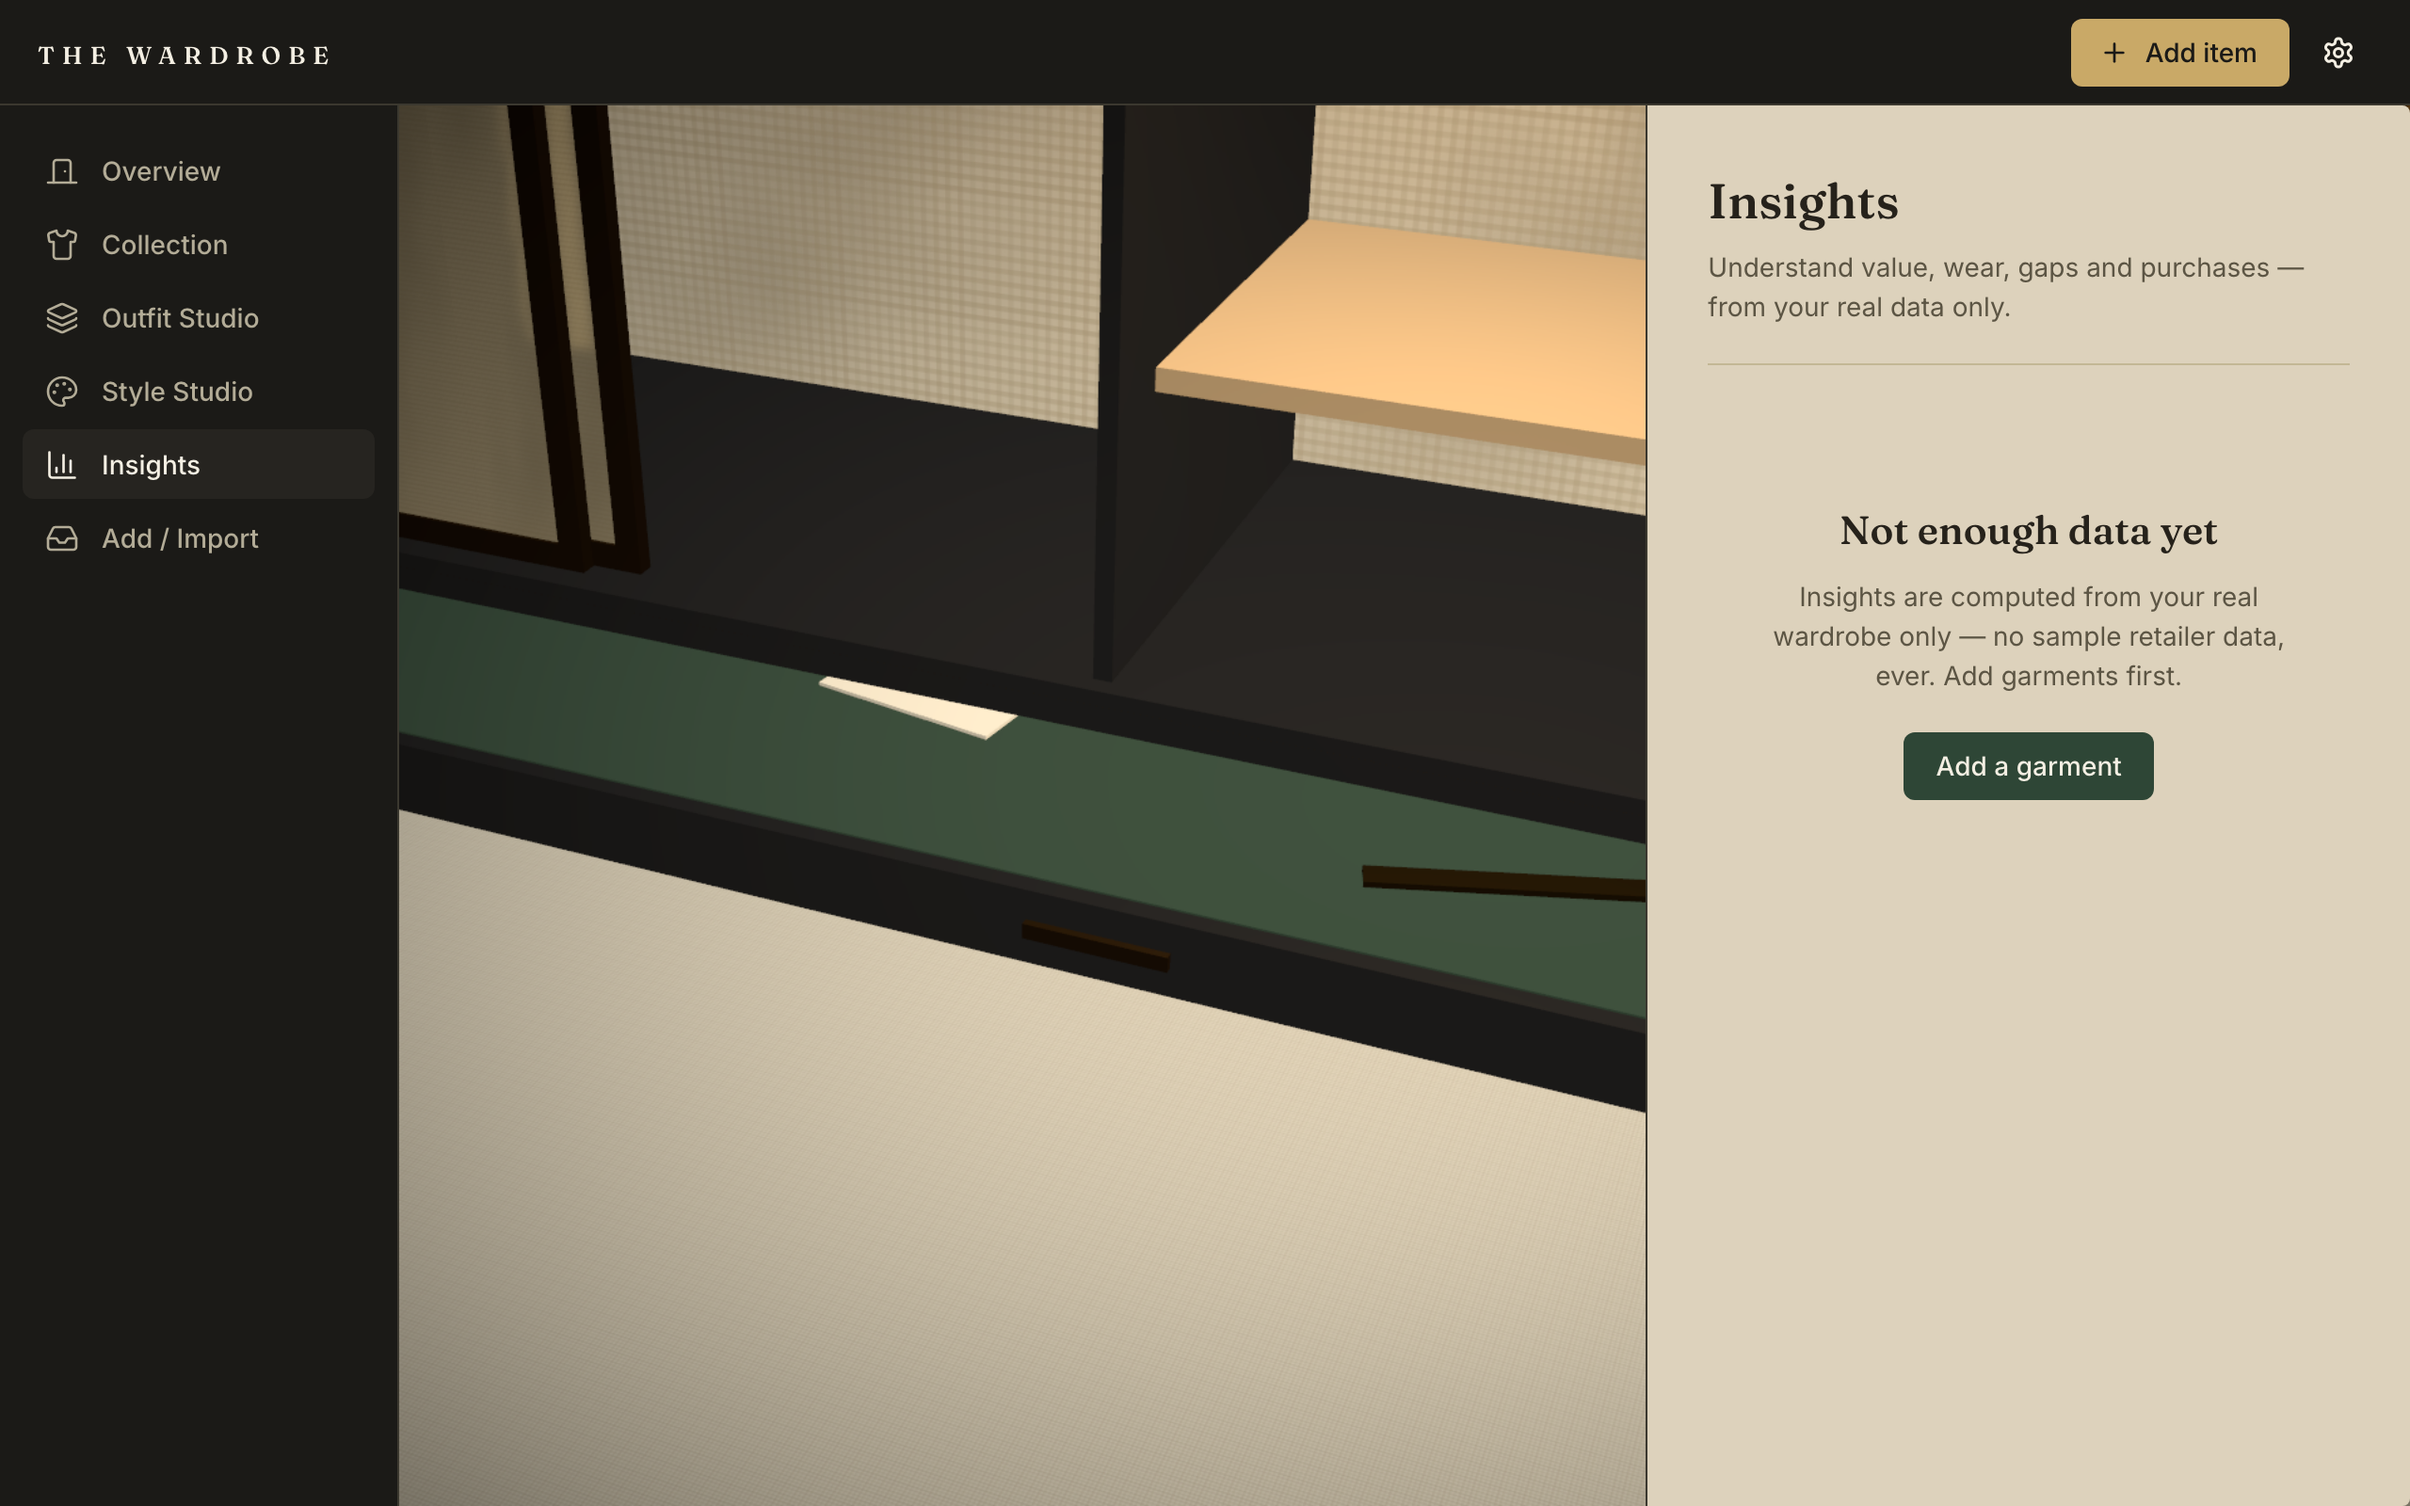
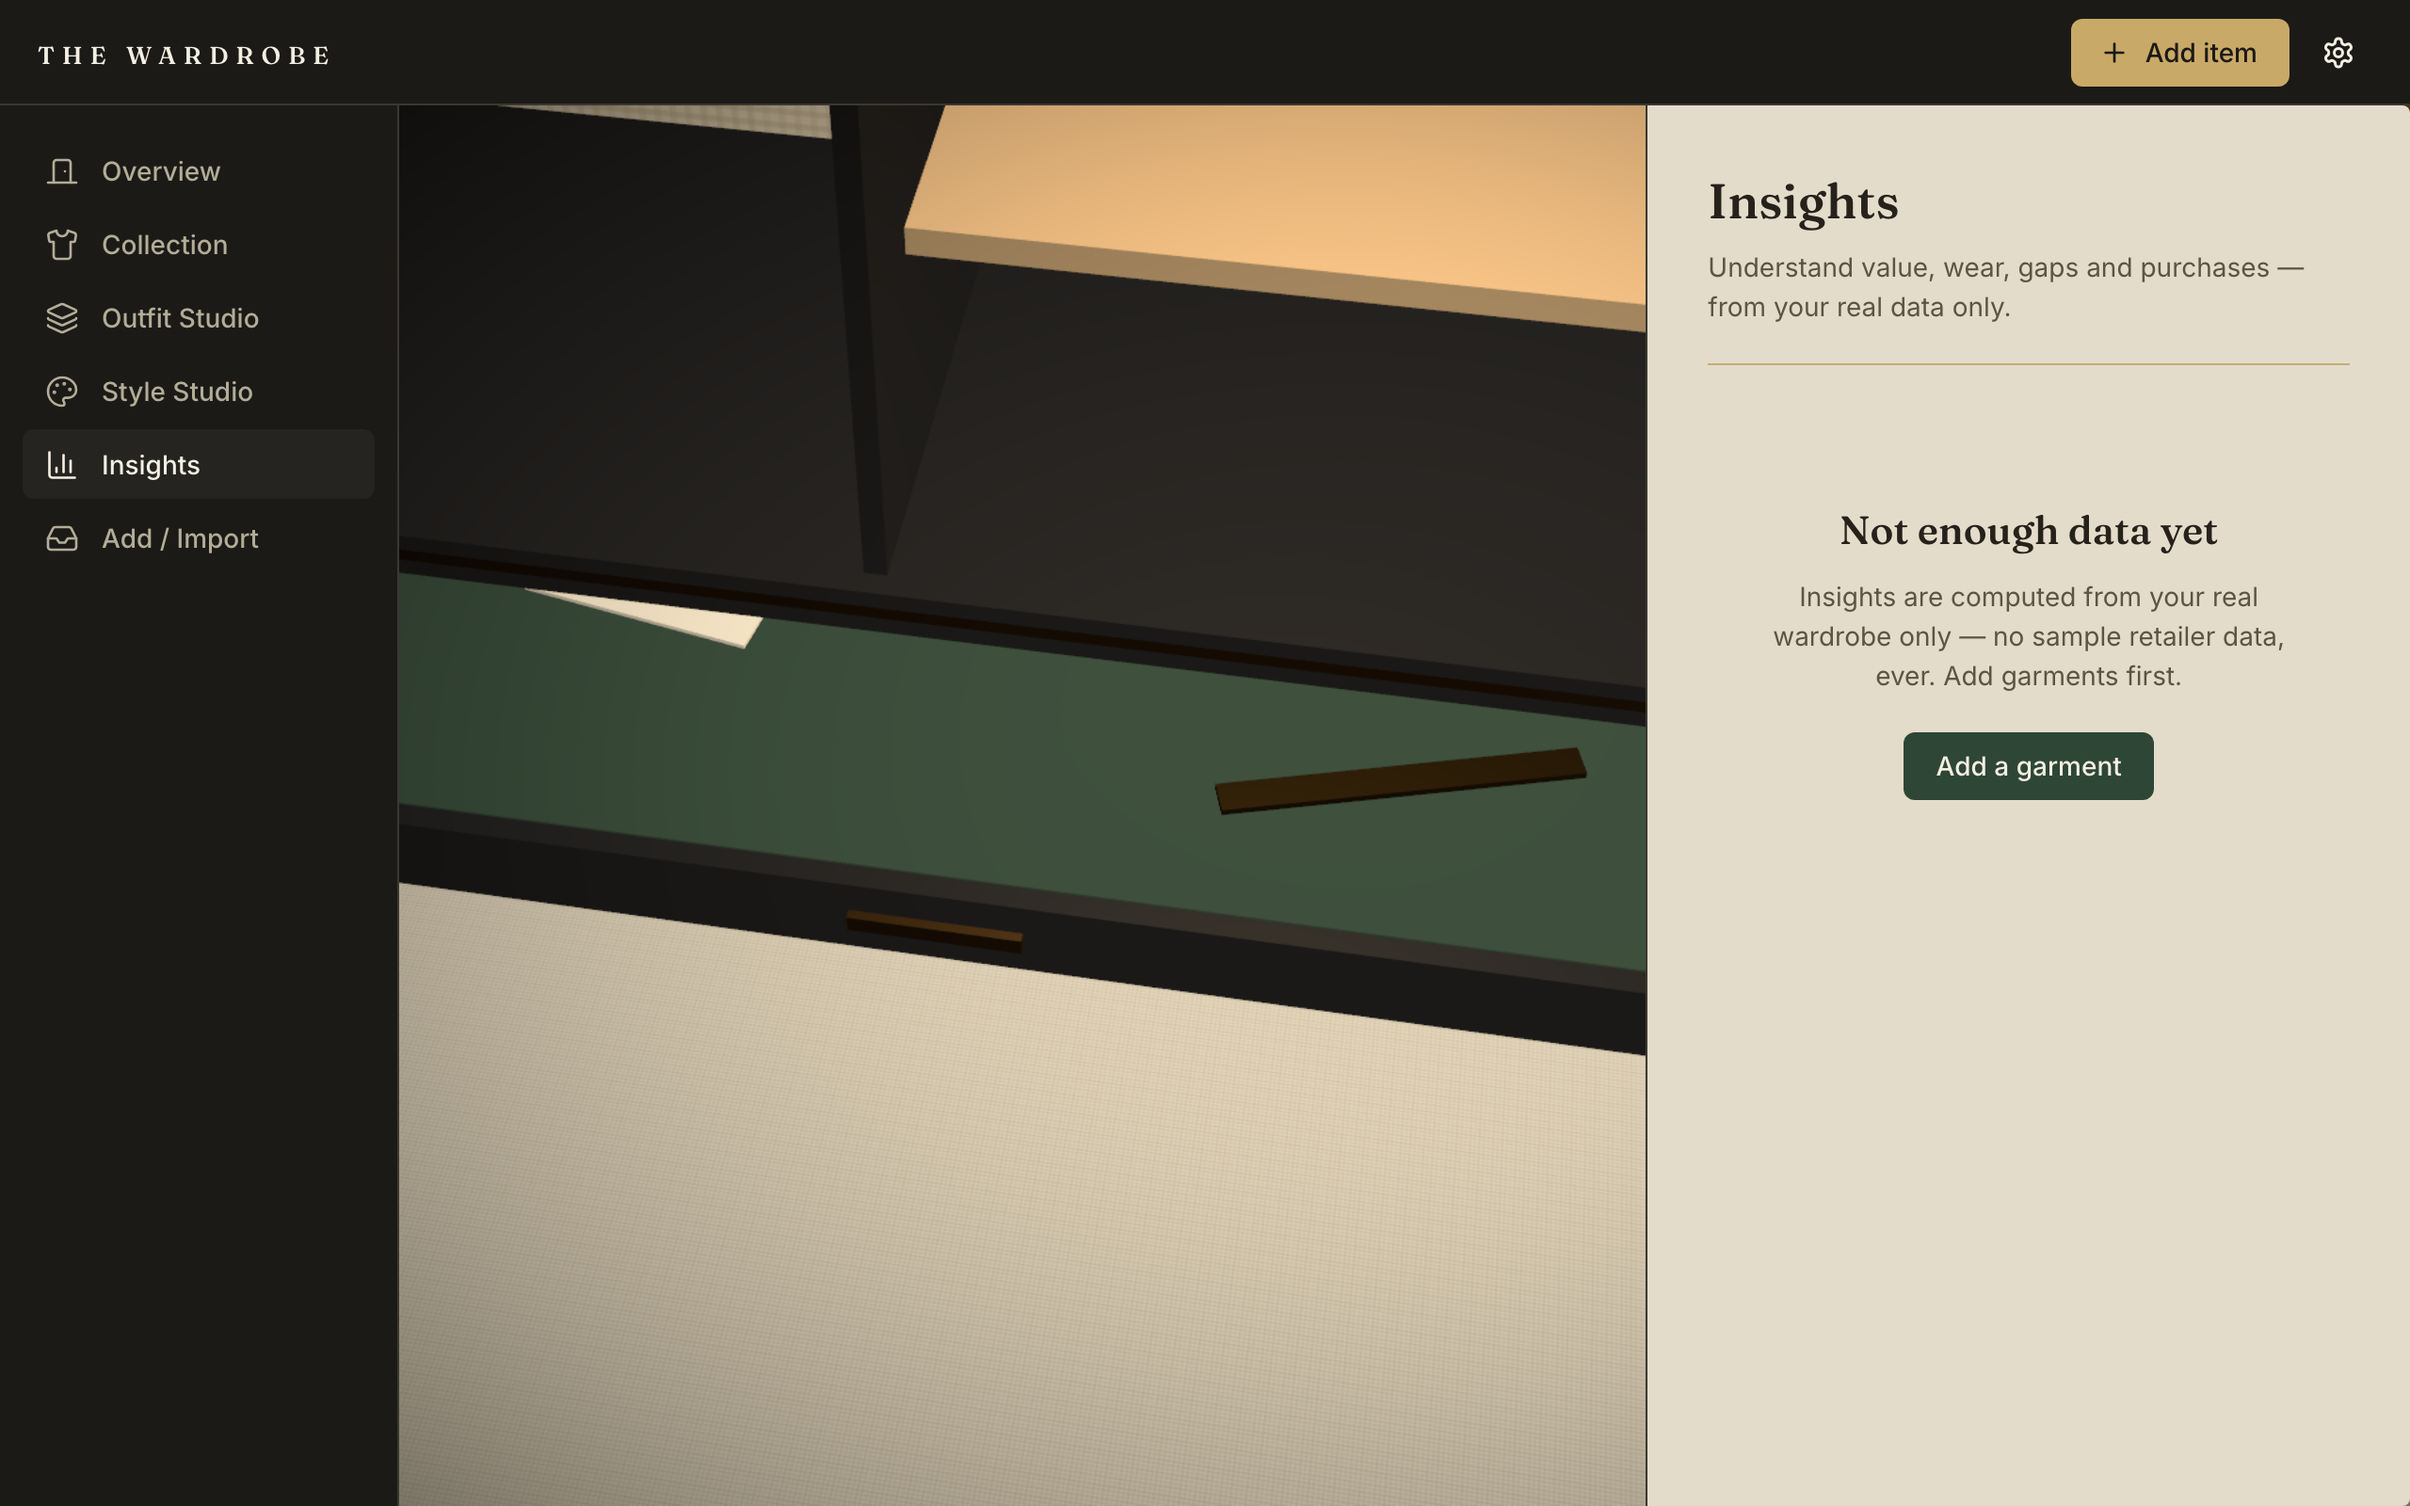
design(revamp): redesign station compositions + rebalance 2D palette to the MJ frames
Compositions — re-authored all six framings to the Midjourney desktop-
layout frames (frontal, formal, gallery-lit), now that sliding panels
free the camera to go straight-on:
- overview: generous straight-on hero (master-style frame)
- collection: frontal lit wardrobe, pulled back so the bay reads as one
  glowing panel among the linen (desktop-collection-workspace)
- outfits: full formal leaning mirror with room to breathe (desktop-outfit)
- style: centred on the golden cane slide
- insights: steep look-down onto the felt ledger drawer + brass ruler (frame 05)
- import: close on a lit brass tray of fanned photo cards — enriched the
  tray with cream cards (one oxblood-edged) + a warm picture light so the
  composition has a real subject (post-tray frame); tray relocated to frame

Palette — rebalanced the 2D surfaces to the frames' 'brighter, cleaner,
less brown' reading planes: base linen lifted off tan toward clean ivory
(#ddd2bc→#e4dccb), raised = lightest reading plane (#f2ede0), a --linen-
sunken reserved for wells, and brass pushed into the hairlines
(#c3b795→#c6ad78) since the frames rule everything in gold. Contrast
still passes (48/48, both surface suites).

All green: unit 48/48, e2e 15/15, scene framings/interruption/reduced-
motion/fallback PASS.

Changed region(s): [[0.1562, 0.0625, 0.6875, 0.75], [0.1562, 0.4688, 0.5625, 0.6562]]

diff --git a/src/revamp/scene/stations.ts b/src/revamp/scene/stations.ts
@@ -22,14 +22,27 @@ export interface Station {
   onDoor?: boolean
 }
 
-/** Lantern framings (scene-v2-lantern.md): frontal, formal, reference-like. */
+/**
+ * Lantern framings — redesigned to the Midjourney desktop-layout frames:
+ * frontal, formal, gallery-lit. Positions are authored full-frame; the rig
+ * view-offsets each into the visible left 62% when the workspace is open, so
+ * the hero object lands centred in the pane rather than the full window.
+ */
 export const STATIONS: Record<StationId, Station> = {
-  overview: { id: 'overview', pos: { x: 0.35, y: 1.32, z: 5.0 }, tgt: { x: 0, y: 1.26, z: 0.35 } },
-  collection: { id: 'collection', pos: { x: 0.05, y: 1.38, z: 3.3 }, tgt: { x: 0, y: 1.3, z: 0.32 } },
-  outfits: { id: 'outfits', pos: { x: 0.7, y: 1.28, z: 3.7 }, tgt: { x: -1.8, y: 1.2, z: 0.5 }, onDoor: true },
-  style: { id: 'style', pos: { x: -0.9, y: 1.32, z: 3.5 }, tgt: { x: 1.38, y: 1.28, z: 0.42 }, onDoor: true },
-  insights: { id: 'insights', pos: { x: 0.6, y: 1.25, z: 2.5 }, tgt: { x: -0.05, y: 0.22, z: 0.95 } },
-  import: { id: 'import', pos: { x: -0.5, y: 1.28, z: 3.1 }, tgt: { x: 2.0, y: 1.18, z: 0.12 } },
+  // hero: the whole lantern, generous, straight-on (master-style frame)
+  overview: { id: 'overview', pos: { x: 0.2, y: 1.34, z: 5.15 }, tgt: { x: -0.15, y: 1.28, z: 0.35 } },
+  // gallery rhythm: straight-on across the wardrobe, pulled back so the
+  // bright bay reads as one lit panel among the linen (desktop-collection)
+  collection: { id: 'collection', pos: { x: -0.1, y: 1.4, z: 4.35 }, tgt: { x: -0.15, y: 1.3, z: 0.4 } },
+  // formal hero: full leaning mirror with room to breathe (desktop-outfit)
+  outfits: { id: 'outfits', pos: { x: -1.45, y: 1.24, z: 3.7 }, tgt: { x: -1.86, y: 1.02, z: 0.45 }, onDoor: true },
+  // frontal on the golden cane slide, centred with breathing room
+  style: { id: 'style', pos: { x: 0.6, y: 1.32, z: 3.75 }, tgt: { x: 0.9, y: 1.22, z: 0.42 }, onDoor: true },
+  // ledger view: closer, steeper look-down so the felt + ruler fill the
+  // frame and the floor drops away (frame 05)
+  insights: { id: 'insights', pos: { x: 0.25, y: 1.5, z: 1.95 }, tgt: { x: 0.05, y: 0.08, z: 0.78 } },
+  // close on the lit tray of photos, looking slightly down (post-tray frame)
+  import: { id: 'import', pos: { x: 1.15, y: 1.5, z: 2.35 }, tgt: { x: 1.62, y: 0.98, z: 0.12 } },
 }
 
 /** Route prefix → station. Longest match wins (settings/fixtures have no station). */

diff --git a/src/revamp/scene/lantern/Surroundings.tsx b/src/revamp/scene/lantern/Surroundings.tsx
@@ -107,10 +107,13 @@ export function Surroundings() {
           extra render pass); reduced quality keeps the cheap glass. */}
       <LeaningMirror frame={m.brass} fallback={m.mirror} />
 
-      {/* wall-mounted brass post tray — Add / Import */}
-      <group position={[LAN.trayX, LAN.trayY, 0.12]}>
-        <mesh material={m.case} position={[0, -0.03, -0.05]}>
-          <boxGeometry args={[0.42, 0.02, 0.06]} />
+      {/* wall-mounted brass post tray with received photos — Add / Import.
+          The composition needs a subject: cream cards fanned in the tray,
+          one with an oxblood edge, lit warm (reference post-tray). */}
+      <group position={[LAN.trayX, LAN.trayY, 0.14]}>
+        {/* oak ledge behind, brass tray floor + rim rails */}
+        <mesh material={m.oak} position={[0, -0.028, -0.03]}>
+          <boxGeometry args={[0.46, 0.024, 0.09]} />
         </mesh>
         <mesh material={m.brass}>
           <boxGeometry args={[0.42, 0.008, 0.3]} />
@@ -125,6 +128,28 @@ export function Surroundings() {
             <boxGeometry args={f.s as unknown as [number, number, number]} />
           </mesh>
         ))}
+        {/* fanned cream photo cards resting in the tray */}
+        {[
+          { x: -0.08, rot: 0.12, c: '#efe7d3' },
+          { x: 0.0, rot: -0.05, c: '#f4efe3' },
+          { x: 0.09, rot: 0.2, c: '#e8dfc9' },
+        ].map((card, i) => (
+          <mesh key={i} position={[card.x, 0.012 + i * 0.004, 0.02]} rotation={[-Math.PI / 2, 0, card.rot]}>
+            <planeGeometry args={[0.16, 0.2]} />
+            <meshStandardMaterial color={card.c} roughness={0.85} side={2} />
+          </mesh>
+        ))}
+        {/* one photo with an oxblood border — the newest arrival */}
+        <mesh position={[0.02, 0.026, 0.03]} rotation={[-Math.PI / 2, 0, -0.14]}>
+          <planeGeometry args={[0.13, 0.16]} />
+          <meshStandardMaterial color="#6f2a24" roughness={0.7} side={2} />
+        </mesh>
+        <mesh position={[0.02, 0.027, 0.03]} rotation={[-Math.PI / 2, 0, -0.14]}>
+          <planeGeometry args={[0.1, 0.13]} />
+          <meshStandardMaterial color="#d8ccb4" roughness={0.85} side={2} />
+        </mesh>
+        {/* warm picture light so the tray never reads as a dark bracket */}
+        <pointLight position={[0, 0.3, 0.25]} color="#ffe2b0" intensity={2.2} distance={1.2} />
       </group>
     </group>
   )

diff --git a/src/revamp/styles/tokens.css b/src/revamp/styles/tokens.css
@@ -16,8 +16,9 @@
   --oak-deep: #a3854f;       /* oak grain shadow */
   --ebonized: #232323;       /* ebonized timber, tile mid */
   --ebonized-deep: #141414;  /* tile darkest band */
-  --linen: #ddd2bc;          /* warm tailoring linen, tile median band */
-  --linen-raised: #ece5d5;   /* cleaner reading surface, tile light band */
+  --linen: #e4dccb;          /* workspace base — lifted off tan toward clean ivory (MJ frames read brighter, less brown) */
+  --linen-raised: #f2ede0;   /* the lightest reading plane — cards, inputs, hero panels */
+  --linen-sunken: #d8ccb4;   /* recessed wells only (never the page field) */
   --brass: #a2823f;          /* aged brass — hue held at 40°, sat controlled */
   --brass-bright: #c9a967;   /* catch-light brass, large text / dark surfaces only */
   --bottle: #2e4636;         /* bottle-green wool, lifted from tile for UI */
@@ -34,7 +35,7 @@
   --linen-dim: #b3ac97;      /* secondary text on dark — ≥4.5:1 on room */
 
   /* —— lines —— */
-  --line-light: #c3b795;     /* hairlines on linen */
+  --line-light: #c6ad78;     /* brass hairlines on linen — the MJ frames rule everything in gold */
   --line-dark: #3b382f;      /* hairlines on charcoal */
 
   /* —— type —— */

diff --git a/src/revamp/scene/lantern/dims.ts b/src/revamp/scene/lantern/dims.ts
@@ -30,8 +30,8 @@ export const LAN = {
   drawerDur: 1.1,
 
   mirrorX: -1.85,
-  trayX: 2.0,
-  trayY: 1.15,
+  trayX: 1.62,
+  trayY: 1.05,
 } as const
 
 const left = -LAN.w / 2
